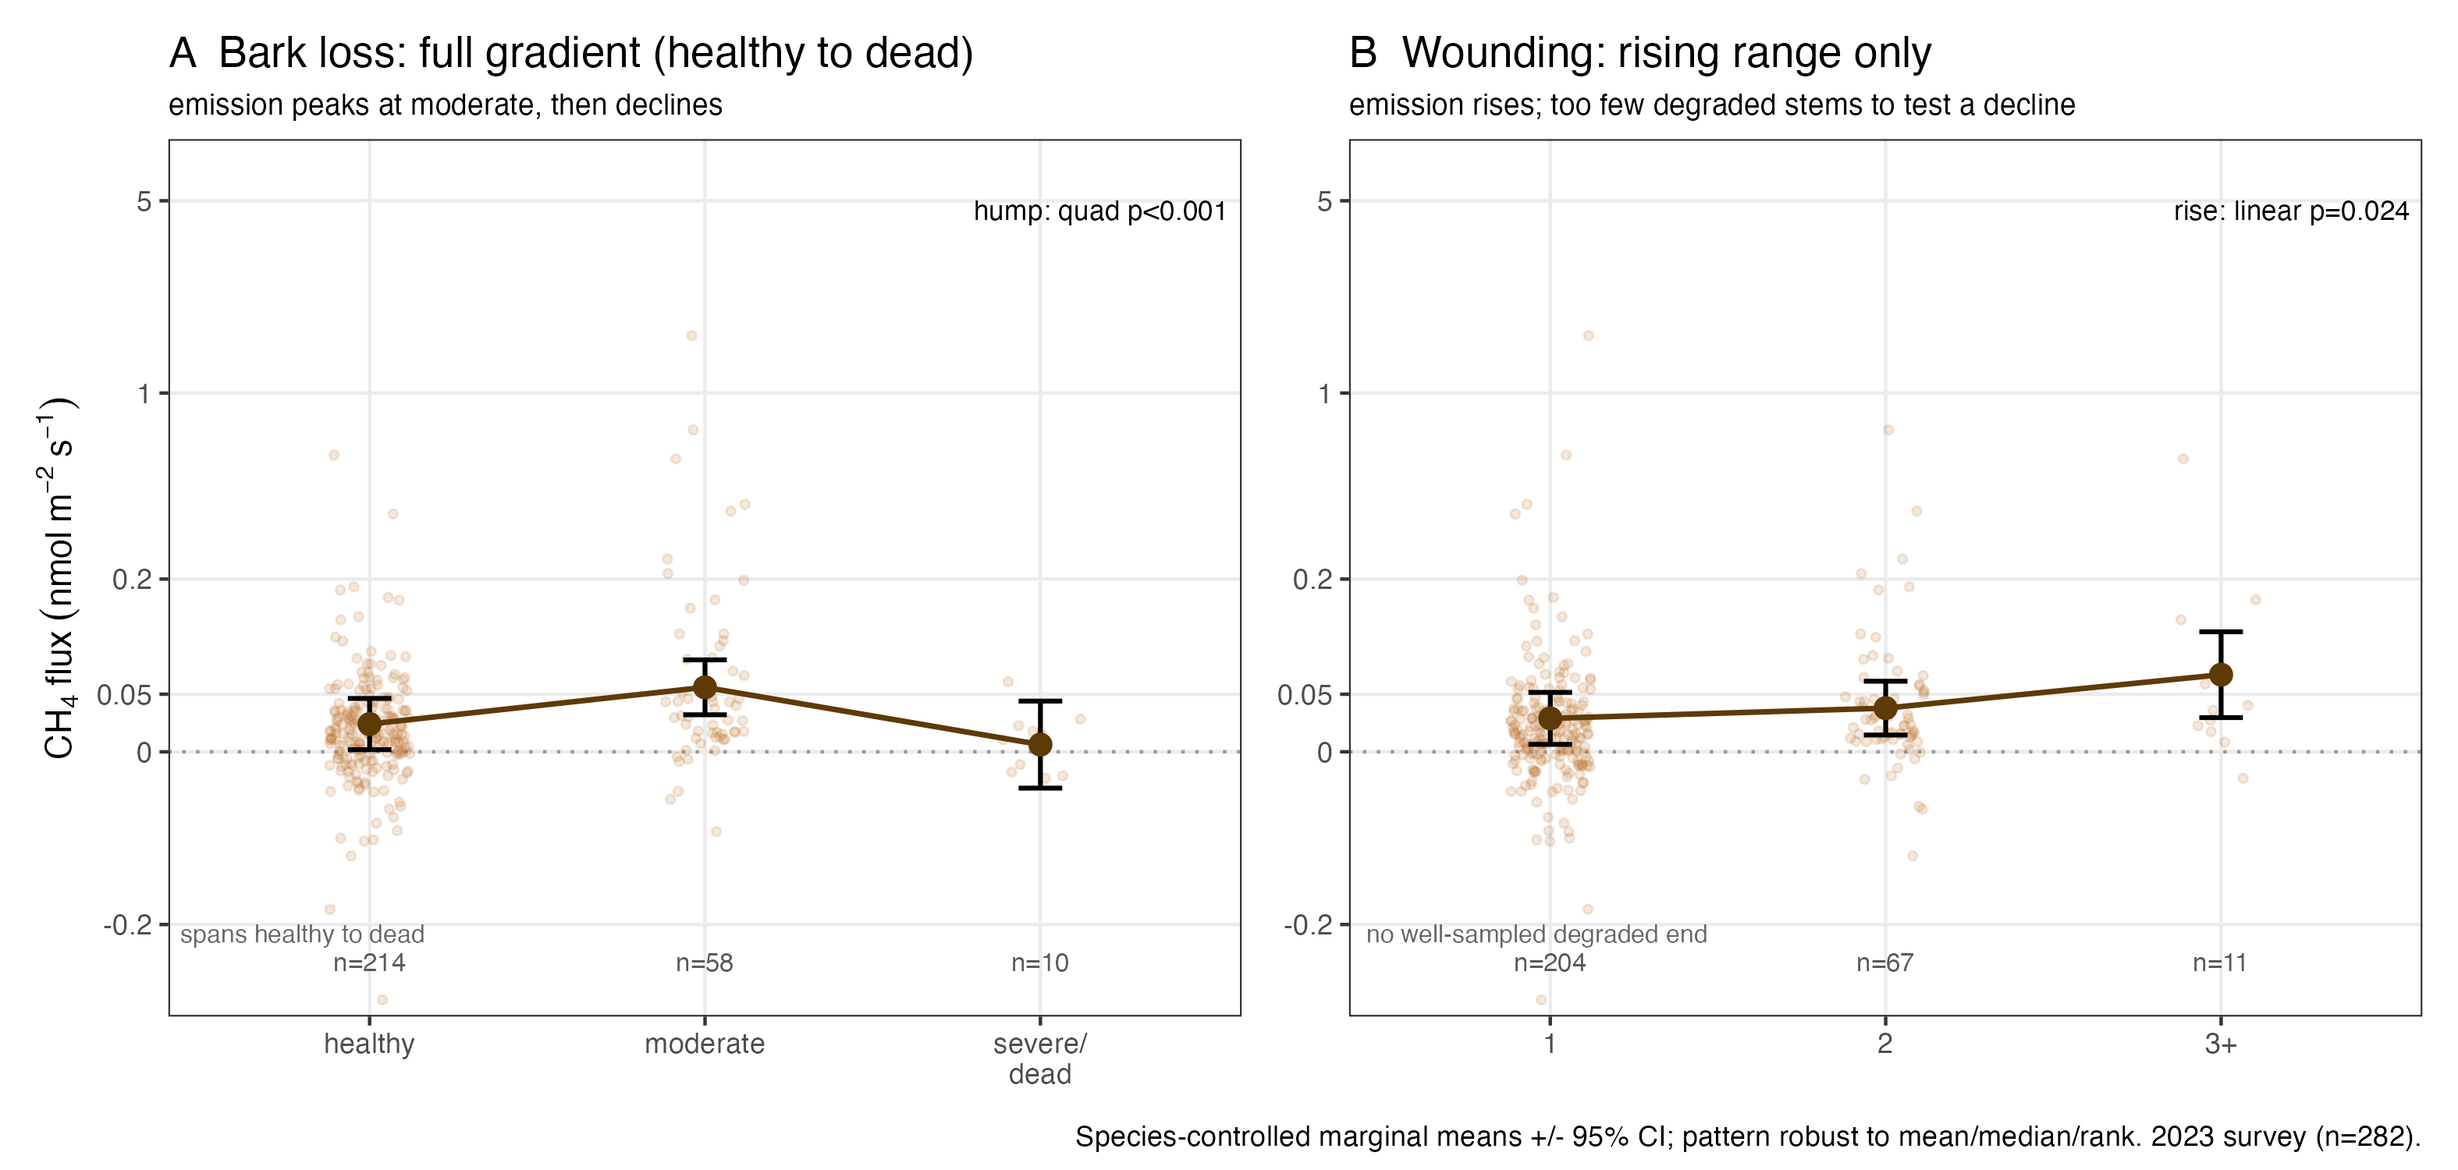
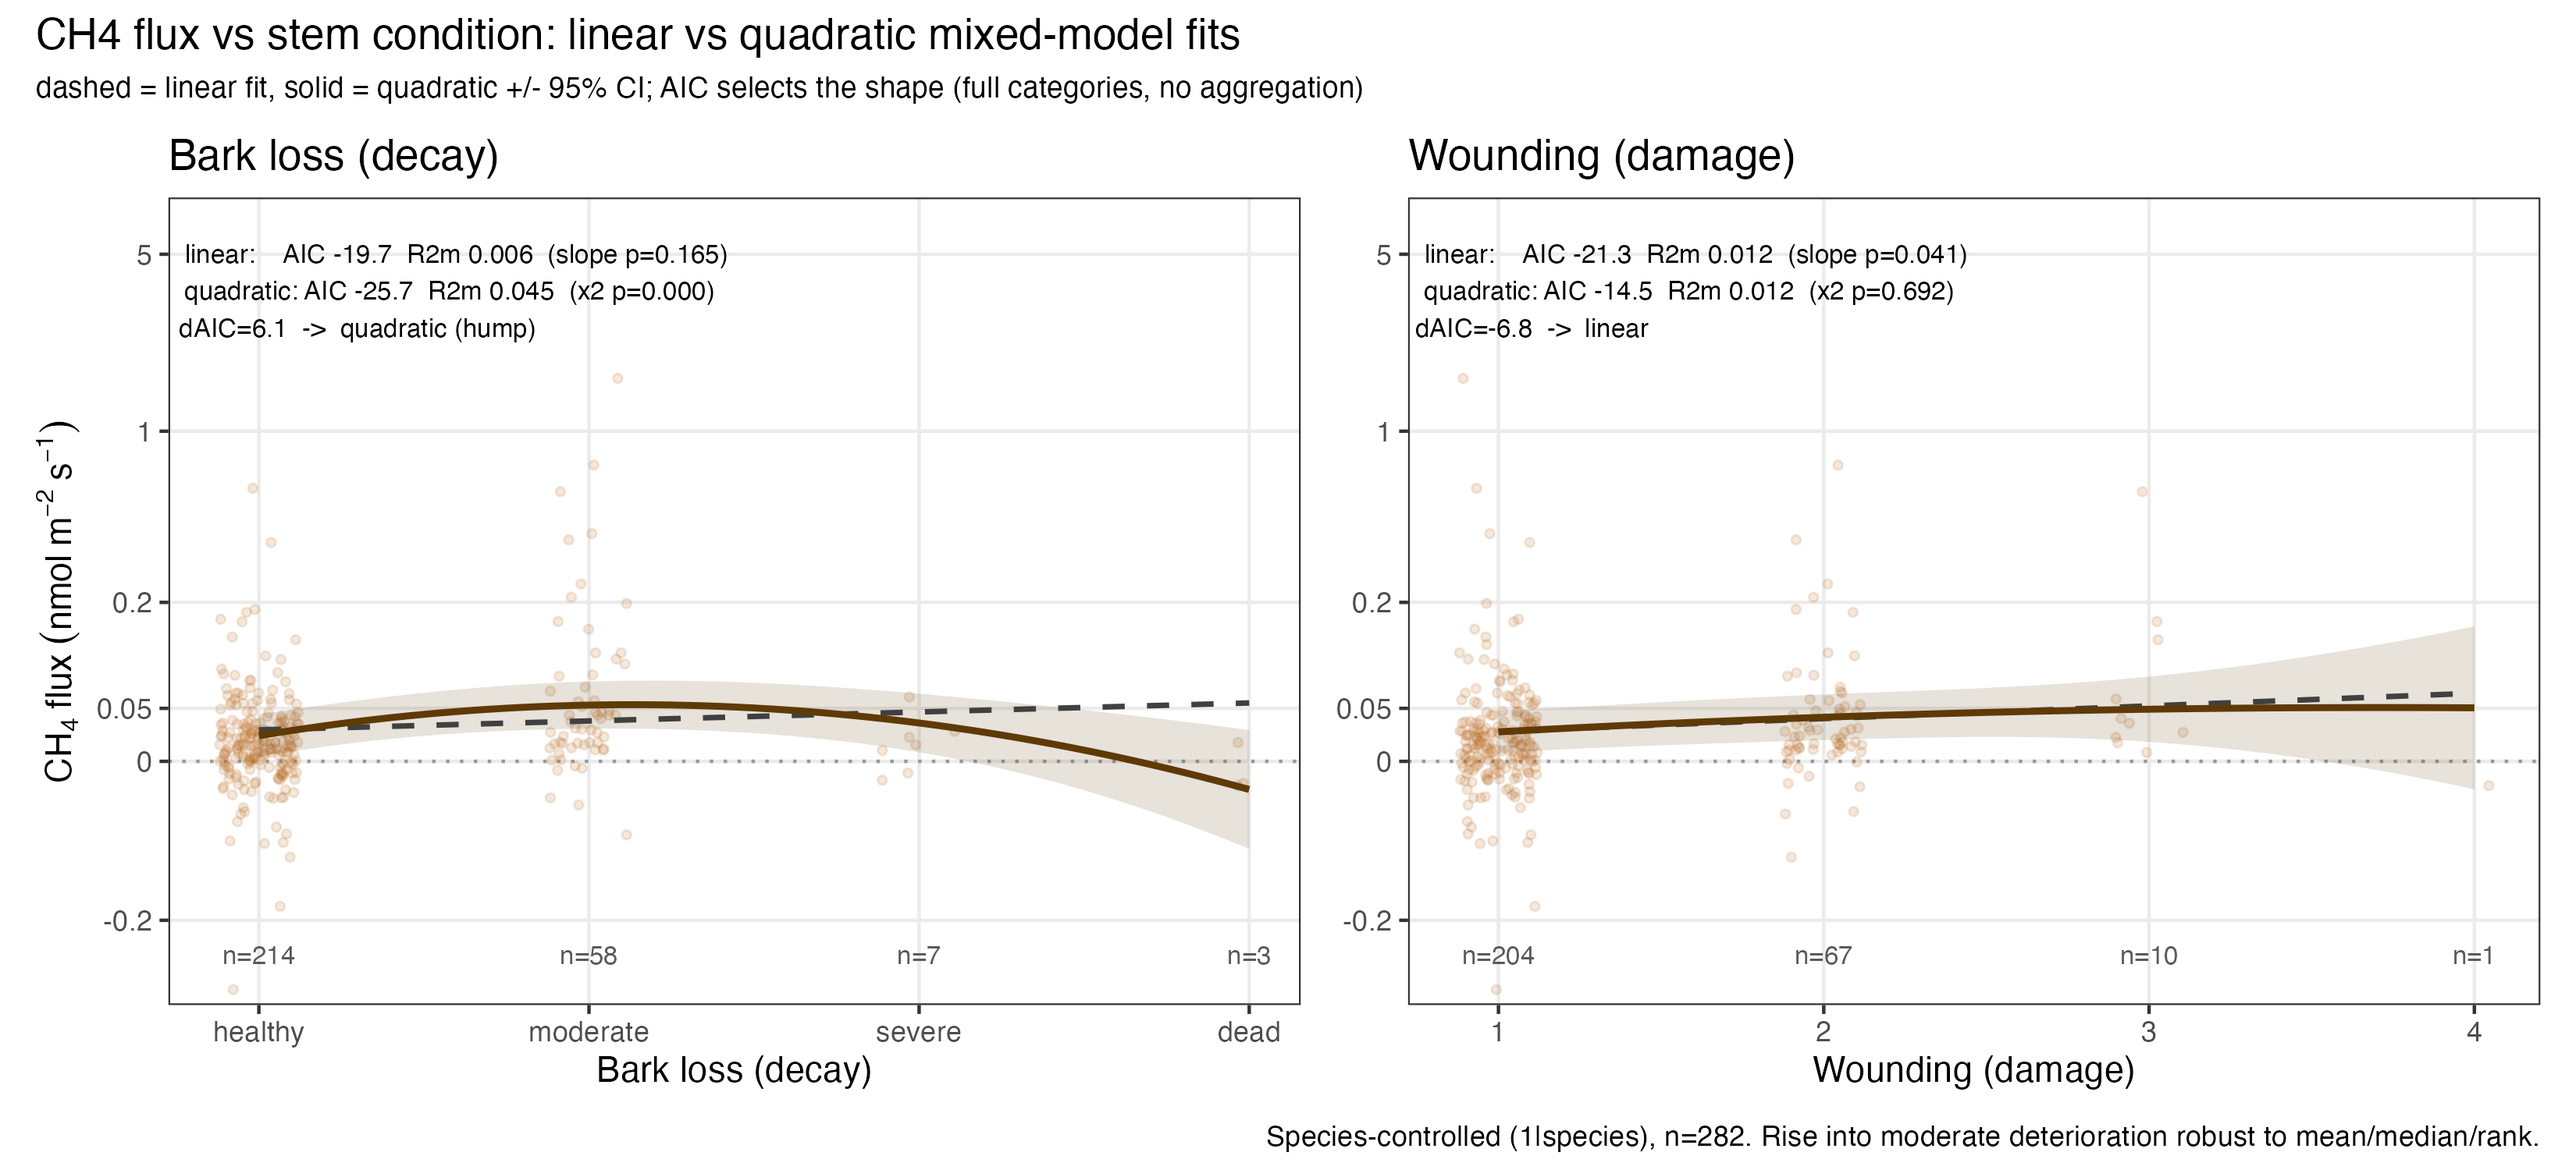
figS20: linear-vs-quadratic model comparison (full categories, AIC-selected)
Replace connect-the-dots with actual fitted continuous models per metric
(arcsinh(flux) ~ level [+ level^2] + (1|species)), full 4 categories, no
aggregation. Show both fits + 95% CI and report AIC / marginal R2 / term-p.
AIC decisively separates the shapes: bark = quadratic/hump (dAIC 6.1, x2
p<0.001, R2m 0.006->0.045); wounding = linear (dAIC 6.8 favouring linear, x2
p=0.69). Original flux units. Also checked (null): mcrA vs total fungal ITS load
r~-0.05; no guild data available.

diff --git a/outputs/revision/figures/MANIFEST.md b/outputs/revision/figures/MANIFEST.md
@@ -42,7 +42,7 @@ heatmap → SI; SI resequenced per `SI_FIGURES_PLAN.md`).
 | S17 | plant-traits | Plant-trait × methane-cycling heatmap (clade-robust) | NEW `rev_figS17_plant-traits.R` | — |
 | S18 | rf-flux-predictions | Random-forest flux predictions | orig | old S15 |
 | S19 | mcra-probe-validation | Probe vs EvaGreen *mcrA* ddPCR (agreement + EvaGreen false positives) | NEW `rev_figS19_mcra-probe-validation.R` | — |
-| S20 | stem-deterioration | Stem condition vs CH₄ flux (bark loss: hump over full gradient; wounding: rise over sampled range) | NEW `rev_figS20_stem-deterioration.R` | — |
+| S20 | stem-deterioration | Stem condition vs CH₄ flux: linear-vs-quadratic model comparison (AIC: bark=hump, wounding=linear) | NEW `rev_figS20_stem-deterioration.R` | — |
 
 ### Retired from the SI set (moved to `exploratory/`)
 - **pmoa-mmox-by-compartment** (`rev_figS07_pmoa-mmox-compartment.R`) — redundant with S04.
